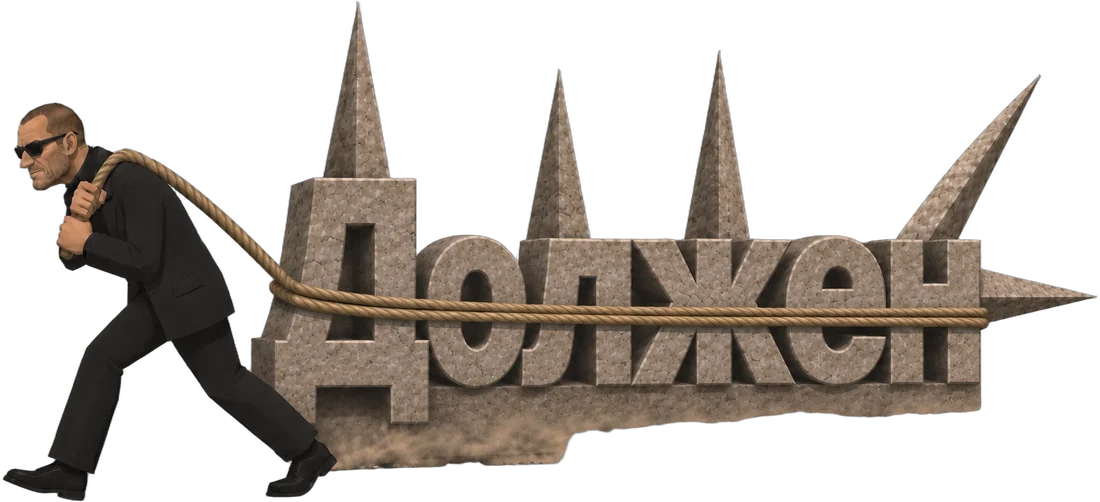
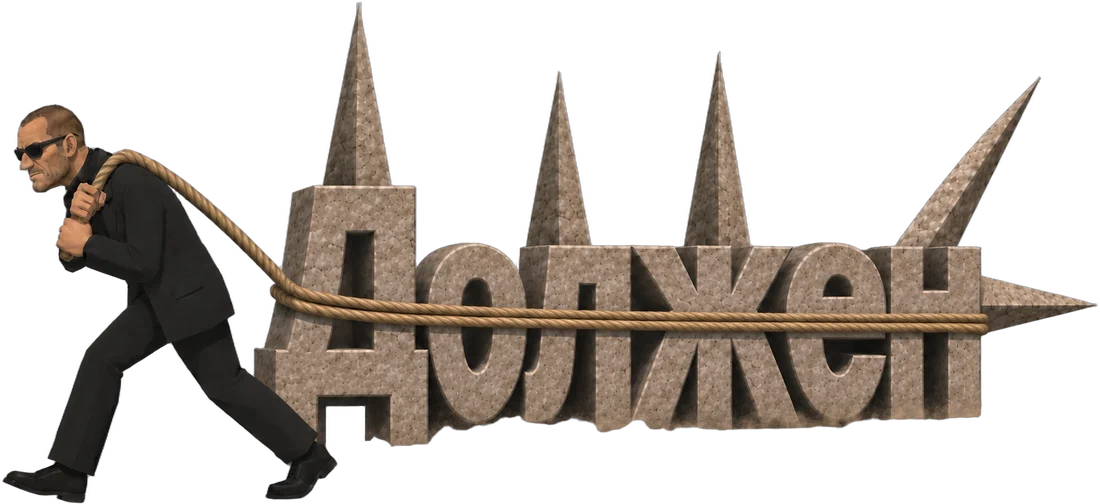
v2: дизайн как на главной (тёмный фон без полос, карточки и кнопки главной), блок «Кто ведёт», логотип SVG из Dela Gothic One, «Должен» без подложки, мысли без «POV», в тесте «Ты — …» в заголовке

diff --git a/app/v2/v2.css b/app/v2/v2.css
@@ -1,20 +1,24 @@
 /* Страница /v2. Всё под .v2, глобальные стили сайта не трогаем.
-   Палитра: тёмные секции — глубокий тёмно-синий, светлые — почти белые; акцент — синий бренда. Тема сайта на неё не влияет */
+   Палитра и приёмы — как на главной (app/globals.css): почти чёрный фон без чередования полос,
+   карточки с обводкой 2px и утолщённой нижней гранью, кнопки с «утапливаемой» нижней гранью.
+   Блок «Кто ведёт» — компонент главной (components/home/Hosts) на её классах; переменные главной
+   ниже прибиты к тёмной теме, чтобы светлая тема системы не перекрашивала страницу. */
 .v2 {
+  --bg: #070709; --text: #fff; --text-muted: #c8c8d8; --text-dim: #888898;
+  --pane: #0f0f18; --ink: #4a4a5e; --bg-2: #0f0f18; --bg-3: #161622;
+  --badge-text: #7b8fff; --badge-bg: rgba(0, 13, 195, .15); --badge-border: rgba(0, 13, 195, .4);
   --v2-head: 'Inter Tight';
-  --bg: #0a0c1a;
-  --bg2: #0f1226;
-  --card: #151a36;
-  --line: #262c52;
-  --text: #eef0fa;
-  --muted: #9aa1c4;
-  --gold: #7f8cff;          /* акцент текста на тёмном */
-  --gold-hi: #3d4dff;
-  --gold-ink: #ffffff;
-  --btn: #1f2fff;           /* кнопка: синий бренда, чуть ярче для тёмного фона */
-  --ink: #000;
-  background: var(--bg);
-  color: var(--text);
+  --bg2: #0f0f18;
+  --card: #0f0f18;           /* --pane главной */
+  --line: #4a4a5e;           /* --ink главной: обводка карточек */
+  --muted: #c8c8d8;
+  --gold: #8fa0ff;           /* --link главной: акцент текста */
+  --gold-hi: #b3c0ff;
+  --btn: #000dc3;            /* --accent */
+  --btn-ink: #00067a;        /* --accent-ink */
+  --glow: rgba(0, 13, 195, .18);
+  background: #070709;
+  color: #fff;
   font-family: 'Manrope', sans-serif;
   line-height: 1.5;
   min-height: 100vh;
@@ -25,49 +29,43 @@
 .v2 :focus-visible { outline: 2px solid var(--gold); outline-offset: 3px; }
 
 /* ---------- шапка ---------- */
-.v2-top { position: sticky; top: 0; z-index: 10; display: flex; align-items: center; justify-content: space-between; gap: 12px; padding: 10px 16px; background: rgba(10, 12, 26, .92); backdrop-filter: blur(8px); border-bottom: 1px solid var(--line); }
-.v2-top__logo { font-family: var(--v2-head), 'Manrope', sans-serif; font-weight: 900; font-size: 15px; letter-spacing: .08em; text-decoration: none; }
+.v2-top { position: sticky; top: 0; z-index: 10; display: flex; align-items: center; justify-content: space-between; gap: 12px; padding: 10px 16px; background: rgba(7, 7, 9, .9); backdrop-filter: blur(8px); border-bottom: 1px solid var(--line); }
+.v2-top__logo { display: block; color: #fff !important; line-height: 0; }
+.v2-top__logo svg { display: block; height: 30px; width: auto; }
 .v2-top__nav { display: flex; align-items: center; gap: 16px; }
 .v2-top__test { font-weight: 800; font-size: 15px; color: var(--gold) !important; text-decoration: underline; text-underline-offset: 4px; text-decoration-thickness: 1px; }
 .v2-top__test:hover { color: var(--gold-hi) !important; }
 .v2-top__logo, .v2-top__test, .v2-top .v2-btn { white-space: nowrap; }
 
 /* ---------- кнопки ---------- */
-.v2-btn { display: inline-block; padding: 13px 22px; font: 800 15px/1.2 'Manrope', sans-serif; letter-spacing: .04em; text-transform: uppercase; text-decoration: none; text-align: center; color: var(--text); background: transparent; border: 1px solid #5a5d63; border-radius: 4px; cursor: pointer; transition: background .15s, border-color .15s, transform .1s; }
-.v2-btn:hover { border-color: var(--text); }
-.v2-btn:active { transform: translateY(1px); }
-.v2-btn--red { color: #fff !important; background: var(--btn); border-color: var(--btn); box-shadow: 0 8px 28px rgba(31, 47, 255, .35); }
-.v2-btn--red:hover { background: var(--gold-hi); border-color: var(--gold-hi); }
-.v2-btn--ghost { border-color: var(--line); }
+.v2-btn { display: inline-block; padding: 11px 20px; font: 700 15px/1.2 'Manrope', sans-serif; text-decoration: none; text-align: center; color: #fff; background: #1c1c2b; border: 2px solid var(--line); border-radius: 8px; box-shadow: 0 2px 0 var(--line); cursor: pointer; transition: background .15s, transform .1s, box-shadow .1s; }
+.v2-btn:hover { transform: translateY(-1px); box-shadow: 0 3px 0 var(--line); }
+.v2-btn:active { transform: translateY(2px); box-shadow: 0 0 0 var(--line); }
+.v2-btn--red { padding: 13px 26px; color: #fff !important; background: var(--btn); border-color: var(--btn-ink); box-shadow: 0 2px 0 var(--btn-ink); }
+.v2-btn--red:hover { background: #0011e8; box-shadow: 0 3px 0 var(--btn-ink); }
+.v2-btn--red:active { box-shadow: 0 0 0 var(--btn-ink); }
 
 /* ---------- типографика ---------- */
-.v2-h1, .v2-h2, .v2-quiz__title { font-family: var(--v2-head), 'Manrope', sans-serif; font-weight: 900; line-height: 1.02; letter-spacing: -0.015em; text-wrap: balance; }
-.v2-h1 { font-size: clamp(38px, 6vw, 64px); margin: 16px 0; text-transform: uppercase; }
+.v2-h1, .v2-h2, .v2-quiz__title { font-family: var(--v2-head), 'Manrope', sans-serif; font-weight: 800; line-height: 1.04; letter-spacing: -0.03em; text-wrap: balance; }
+.v2-h1 { font-size: clamp(38px, 6vw, 66px); margin: 12px 0 16px; }
 .v2-h2 { font-size: clamp(28px, 4.6vw, 44px); margin-bottom: 12px; }
 .v2-lead { font-size: 18px; color: var(--muted); margin-bottom: 28px; max-width: 640px; }
-.v2-section { padding: 72px 0; border-top: 1px solid var(--line); }
-.v2-section--blue { background: var(--bg2); }
-.v2-section--yellow { background: radial-gradient(ellipse at 20% 0%, rgba(31, 47, 255, .28), transparent 60%), var(--bg2); }
-/* светлые секции: свои значения переменных, компоненты внутри перекрашиваются сами */
-.v2-section:not(.v2-section--blue):not(.v2-section--yellow) {
-  --text: #0b0e22; --muted: #4b5274; --card: #ffffff; --line: #d6dbee; --gold: #000dc3; --btn: #000dc3; --gold-hi: #1a28e0;
-  background: #eef1fa; color: var(--text);
-}
-.v2-section--paper:not(.v2-section--blue) { background: #e3e8f6; }
-.v2-section:not(.v2-section--blue):not(.v2-section--yellow) .v2-btn--ghost { border-color: #b9bfd8; color: var(--text); }
-
-.v2-sticker { display: inline-block; padding: 5px 0; font-weight: 800; font-size: 13px; letter-spacing: .14em; text-transform: uppercase; color: var(--gold); border-bottom: 1px solid var(--gold); }
+.v2-section { padding: 72px 0; }
+.v2 .hosts { padding: 72px 0; }
+.v2-section--blue { background: transparent; }
+.v2-section--yellow { background: radial-gradient(ellipse 60% 70% at 50% 0%, var(--glow), transparent 70%); }
+.v2-sticker { display: inline-block; font-weight: 600; font-size: 15px; color: var(--muted); }
 
 /* ---------- первый экран ---------- */
-.v2-hero { position: relative; overflow: hidden; padding: 48px 0 64px; background: radial-gradient(ellipse 55% 70% at 72% 55%, rgba(90, 110, 255, .22), transparent 70%), var(--bg); }
+.v2-hero { position: relative; overflow: hidden; padding: 48px 0 64px; background: radial-gradient(ellipse 55% 70% at 72% 55%, var(--glow), transparent 70%), #070709; }
 .v2-hero__grid { position: relative; display: grid; gap: 32px; align-items: center; }
 .v2-hero__sub { font-size: 19px; color: var(--muted); max-width: 560px; margin-bottom: 26px; }
 .v2-hero__actions { display: flex; flex-wrap: wrap; gap: 14px; margin-bottom: 26px; }
 .v2-chips { display: flex; flex-wrap: wrap; gap: 8px; }
-.v2-chips li { padding: 5px 12px; font-size: 13px; font-weight: 700; color: var(--muted); border: 1px solid var(--line); border-radius: 3px; }
+.v2-chips li { padding: 5px 12px; font-size: 13px; font-weight: 700; color: #fff; border: 1.5px solid var(--line); border-radius: 999px; }
 
 /* стена «должен»: давящие слова бегут за героем */
-.v2-wall { position: absolute; inset: 0; display: flex; flex-direction: column; justify-content: space-around; pointer-events: none; color: var(--text); opacity: .05; }
+.v2-wall { position: absolute; inset: 0; display: flex; flex-direction: column; justify-content: space-around; pointer-events: none; color: #fff; opacity: .05; }
 .v2-wall__row { display: flex; gap: 36px; width: max-content; font-family: var(--v2-head), 'Manrope', sans-serif; font-weight: 900; font-size: clamp(44px, 8vw, 96px); line-height: 1; text-transform: uppercase; white-space: nowrap; animation: v2-slide 300s linear infinite; }
 .v2-wall__row--rev { animation-direction: reverse; }
 @keyframes v2-slide { to { transform: translateX(-50%); } }
@@ -83,23 +81,22 @@
 .v2-hero__art { position: relative; }
 .v2-hero__drag { display: block; width: 100%; max-width: none; height: auto; filter: drop-shadow(0 18px 18px rgba(0, 0, 0, .6)); }
 /* подписи на шипах «Должен»: x/y — середина шипа */
-.v2-spike { position: absolute; translate: -50% -50%; padding: 3px 8px; font-weight: 800; font-size: clamp(11px, 1.5vw, 15px); line-height: 1.1; white-space: nowrap; color: #fff; background: var(--btn); border-radius: 3px; box-shadow: 0 4px 12px rgba(0, 0, 0, .45); }
+.v2-spike { position: absolute; translate: -50% -50%; padding: 3px 8px; font-weight: 800; font-size: clamp(11px, 1.5vw, 15px); line-height: 1.1; white-space: nowrap; color: #fff; background: var(--btn); border-radius: 6px; box-shadow: 0 2px 0 var(--btn-ink), 0 4px 12px rgba(0, 0, 0, .45); }
 
-/* мысли из рилса «POV: мозг мужика» */
+/* мужские мысли под заголовком */
 .v2-pov { margin: -4px 0 18px; }
-.v2-pov__label { display: block; font-size: 13px; font-weight: 800; letter-spacing: .12em; text-transform: uppercase; color: var(--muted); margin-bottom: 4px; }
-/* высота всегда на две строки: мысли разной длины не двигают кнопки ниже */
-.v2-pov__line { display: block; height: 2.3em; overflow: hidden; font-family: var(--v2-head), 'Manrope', sans-serif; font-weight: 900; font-size: clamp(22px, 3vw, 32px); line-height: 1.15; text-transform: uppercase; color: var(--gold); }
+/* высота ровно в одну строку: мысли разной длины не двигают кнопки ниже */
+.v2-pov__line { display: block; height: 1.2em; overflow: hidden; white-space: nowrap; font-family: var(--v2-head), 'Manrope', sans-serif; font-weight: 900; font-size: clamp(22px, 3vw, 32px); line-height: 1.15; color: var(--gold); }
 .v2-pov__word { display: inline-block; }
 
 /* ---------- узнал себя ---------- */
 .v2-signs-grid { display: grid; gap: 28px; align-items: center; }
 .v2-signs { display: grid; gap: 10px; margin: 24px 0; }
-.v2-signs li { display: flex; gap: 14px; align-items: flex-start; padding: 14px 16px; font-weight: 600; background: var(--card); border: 1px solid var(--line); border-radius: 4px; }
+.v2-signs li { display: flex; gap: 14px; align-items: flex-start; padding: 14px 16px; font-weight: 600; background: var(--card); border: 2px solid var(--line); border-bottom-width: 4px; border-radius: 12px; }
 .v2-signs span { color: var(--gold); font-size: 20px; line-height: 1.15; }
 .v2-conclusion { font-size: 20px; font-weight: 800; margin-bottom: 20px; }
 
-.v2-crush { position: relative; display: flex; flex-direction: column; align-items: center; padding-top: 10px; overflow: hidden; background: radial-gradient(ellipse 60% 55% at 50% 60%, rgba(90, 110, 255, .25), transparent 70%); border-bottom: 4px solid #3a4170; }
+.v2-crush { position: relative; display: flex; flex-direction: column; align-items: center; padding-top: 10px; overflow: hidden; background: radial-gradient(ellipse 60% 55% at 50% 60%, var(--glow), transparent 70%); border-bottom: 4px solid var(--line); }
 .v2-crush__pile { position: relative; z-index: 2; display: flex; flex-direction: column; align-items: center; margin-bottom: -8%; }
 .v2-crush__stone { font-size: clamp(30px, 5vw, 46px); margin-top: -6px; }
 .v2-crush__stone:nth-child(odd) { transform: rotate(-3deg); }
@@ -108,7 +105,7 @@
 
 /* ---------- факты ---------- */
 .v2-facts { display: grid; gap: 16px; margin: 24px 0; }
-.v2-facts li { padding: 22px; background: var(--card); border: 1px solid var(--line); border-radius: 4px; }
+.v2-facts li { padding: 22px; background: var(--card); border: 2px solid var(--line); border-bottom-width: 4px; border-radius: 12px; }
 .v2-facts b { display: block; margin-bottom: 10px; font-family: var(--v2-head), 'Manrope', sans-serif; font-weight: 900; font-size: 40px; line-height: 1.05; color: var(--gold); }
 .v2-facts p { color: var(--muted); }
 .v2-facts small { display: block; margin-top: 10px; font-size: 12px; color: var(--muted); opacity: .8; }
@@ -116,10 +113,10 @@
 /* ---------- оффер и цена ---------- */
 .v2-offer { display: grid; gap: 28px; margin-top: 24px; }
 .v2-get { display: grid; gap: 12px; }
-.v2-get li { padding: 18px 20px; background: var(--card); border: 1px solid var(--line); border-radius: 4px; }
+.v2-get li { padding: 18px 20px; background: var(--card); border: 2px solid var(--line); border-bottom-width: 4px; border-radius: 12px; }
 .v2-get h3 { font-size: 19px; margin-bottom: 4px; }
 .v2-get p { color: var(--muted); }
-.v2-price { padding: 28px 24px; text-align: center; background: linear-gradient(180deg, #1a2050, #10143a); color: #eef0fa; --muted: #aab1d6; --gold: #8f9bff; border: 1px solid var(--gold); border-radius: 4px; box-shadow: 0 20px 50px rgba(10, 14, 60, .35); }
+.v2-price { padding: 28px 24px; text-align: center; background: linear-gradient(160deg, #14143a 0%, #161622 60%); color: #fff; border: 2px solid var(--line); border-bottom-width: 5px; border-radius: 16px; box-shadow: 0 16px 40px rgba(0, 0, 0, .45); }
 .v2-price__start { font-weight: 800; font-size: 13px; letter-spacing: .12em; text-transform: uppercase; color: var(--gold); }
 .v2-price__amount { font-family: var(--v2-head), 'Manrope', sans-serif; font-weight: 900; font-size: 72px; line-height: 1.05; }
 .v2-price__per { font-weight: 800; margin-bottom: 12px; }
@@ -127,14 +124,13 @@
 .v2-price__hint { margin: 16px 0 0; }
 
 /* ---------- тест ---------- */
-.v2-quiz { display: grid; gap: 22px; align-items: center; padding: 26px; background: var(--card); border: 1px solid var(--line); border-radius: 4px; box-shadow: 0 20px 50px rgba(0, 0, 0, .4); }
+.v2-quiz { display: grid; gap: 22px; align-items: center; padding: 26px; background: var(--card); border: 2px solid var(--line); border-bottom-width: 4px; border-radius: 12px; box-shadow: 0 16px 40px rgba(0, 0, 0, .45); }
 .v2-quiz--q { display: block; }
 .v2-quiz--result { grid-template-columns: 1fr; }
 .v2-quiz__face { width: 160px; height: auto; justify-self: center; filter: drop-shadow(0 14px 14px rgba(0, 0, 0, .6)); }
 .v2-quiz__lead { font-size: 18px; color: var(--muted); margin-bottom: 18px; }
 .v2-quiz__title { font-size: 26px; margin-bottom: 10px; }
-.v2-quiz--result .v2-quiz__title { font-size: clamp(32px, 4.6vw, 46px); text-transform: uppercase; }
-.v2-quiz__kicker { font-weight: 800; font-size: 13px; letter-spacing: .12em; text-transform: uppercase; color: var(--gold); margin-bottom: 4px; }
+.v2-quiz--result .v2-quiz__title { font-size: clamp(32px, 4.6vw, 46px); }
 .v2-quiz__sub { font-weight: 800; font-size: 18px; margin-bottom: 8px; }
 .v2-quiz__actions { display: flex; flex-wrap: wrap; gap: 12px; }
 .v2-quiz__bar { height: 4px; margin-bottom: 16px; background: var(--line); overflow: hidden; }
@@ -142,24 +138,24 @@
 .v2-quiz__count { font-size: 13px; font-weight: 700; letter-spacing: .1em; text-transform: uppercase; color: var(--muted); }
 .v2-quiz__q { font-size: 24px; line-height: 1.25; margin: 6px 0 20px; }
 .v2-quiz__opts { display: grid; gap: 10px; }
-.v2-opt { width: 100%; padding: 15px 18px; text-align: left; font: 700 17px/1.3 'Manrope', sans-serif; color: var(--text); background: var(--bg2); border: 1px solid var(--line); border-radius: 4px; cursor: pointer; transition: border-color .12s, background .12s, transform .12s; }
-.v2-opt:hover { border-color: var(--gold); background: #1a2050; transform: translateX(4px); }
+.v2-opt { width: 100%; padding: 15px 18px; text-align: left; font: 700 17px/1.3 'Manrope', sans-serif; color: #fff; background: #161622; border: 2px solid var(--line); border-bottom-width: 4px; border-radius: 12px; cursor: pointer; transition: border-color .12s, background .12s, transform .12s; }
+.v2-opt:hover { border-color: var(--gold); background: #1c1c2b; transform: translateX(4px); }
 
 /* мем в результате */
-.v2-meme { position: relative; margin: 0; border: 1px solid var(--line); border-radius: 4px; overflow: hidden; background: #222; }
+.v2-meme { position: relative; margin: 0; border: 2px solid var(--line); border-radius: 12px; overflow: hidden; background: #222; }
 .v2-meme img { width: 100%; height: auto; aspect-ratio: 1; object-fit: cover; }
 
 /* ---------- шаги ---------- */
 .v2-steps { display: grid; gap: 14px; margin-top: 24px; }
-.v2-steps li { position: relative; padding: 20px 20px 20px 76px; background: var(--card); border: 1px solid var(--line); border-radius: 4px; }
+.v2-steps li { position: relative; padding: 20px 20px 20px 76px; background: var(--card); border: 2px solid var(--line); border-bottom-width: 4px; border-radius: 12px; }
 .v2-steps__n { position: absolute; left: 20px; top: 18px; font-family: var(--v2-head), 'Manrope', sans-serif; font-weight: 900; font-size: 40px; line-height: 1; color: var(--gold); }
 .v2-steps h3 { font-size: 19px; margin-bottom: 4px; }
 .v2-steps p { color: var(--muted); }
 
 /* ---------- вопросы ---------- */
 .v2-faq { display: grid; gap: 8px; margin-top: 20px; }
-.v2-faq details { background: var(--card); border: 1px solid var(--line); border-radius: 4px; }
-.v2-faq details[open] { border-color: #4a4d53; }
+.v2-faq details { background: var(--card); border: 2px solid var(--line); border-bottom-width: 4px; border-radius: 12px; }
+.v2-faq details[open] { border-color: var(--gold); }
 .v2-faq summary { padding: 16px 18px; font-weight: 800; cursor: pointer; list-style: none; }
 .v2-faq summary::-webkit-details-marker { display: none; }
 .v2-faq summary::after { content: '+'; float: right; font-size: 22px; line-height: 1; color: var(--gold); }
@@ -167,10 +163,10 @@
 .v2-faq p { padding: 0 18px 18px; color: var(--muted); }
 
 /* ---------- финал ---------- */
-.v2-final { padding: 72px 0; text-align: center; border-top: 1px solid var(--line); background: radial-gradient(ellipse 50% 60% at 50% 30%, rgba(31, 47, 255, .35), transparent 70%), #070917; }
+.v2-final { padding: 72px 0; text-align: center; background: radial-gradient(ellipse 50% 60% at 50% 30%, rgba(0, 13, 195, .3), transparent 70%); }
 .v2-final .v2-lead { margin-inline: auto; }
 .v2-final__face { width: 220px; height: auto; margin: 0 auto 14px; filter: drop-shadow(0 18px 18px rgba(0, 0, 0, .7)); }
-.v2-foot { padding: 28px 0 40px; font-size: 13px; color: #7d84a8; border-top: 1px solid var(--line); background: #070917; }
+.v2-foot { padding: 28px 0 40px; font-size: 13px; color: #888898; border-top: 1px solid rgba(255, 255, 255, .14); }
 .v2-foot p + p { margin-top: 8px; }
 
 /* ---------- анимации ---------- */
@@ -211,7 +207,7 @@
 }
 /* телефон: картинка над заголовком, шапка в одну строку */
 @media (max-width: 759px) {
-  .v2-hero { padding-top: 20px; background: radial-gradient(ellipse 90% 30% at 50% 14%, rgba(90, 110, 255, .22), transparent 70%), var(--bg); }
+  .v2-hero { padding-top: 20px; background: radial-gradient(ellipse 90% 30% at 50% 14%, var(--glow), transparent 70%), #070709; }
   .v2-hero__art { order: -1; margin-top: -8px; }
 }
 @media (max-width: 420px) {

diff --git a/components/v2/LogoSvg.tsx b/components/v2/LogoSvg.tsx
@@ -1,0 +1,11 @@
+/**
+ * Логотип «Мужская среда» кривыми из Dela Gothic One — как на главной (components/Logo.tsx),
+ * но без загрузки шрифта. Цвет берёт из currentColor.
+ */
+export default function LogoSvg({ className }: { className?: string }) {
+  return (
+    <svg className={className} viewBox="40 -21 6661 1761" role="img" aria-label="Мужская среда" xmlns="http://www.w3.org/2000/svg">
+      <path fill="currentColor" d="M975 0.0 1053 726.0H794L778 208.0L678 726.0H416L314 212.0L299 726.0H40L118 0.0H458L545 473.0L621 0.0Z M1908.0 0.0Q1904.0 11.0 1898.0 24.5Q1892.0 38.0 1886.0 55.0Q1831.0 191.0 1784.5 299.5Q1738.0 408.0 1674.0 546.0Q1618.0 666.0 1510.5 738.5Q1403.0 811.0 1240.0 808.0Q1219.0 721.0 1206.5 676.5Q1194.0 632.0 1173.0 585.0Q1232.0 598.0 1282.0 598.0Q1331.0 598.0 1370.0 585.0Q1298.0 400.0 1113.0 0.0H1362.0L1521.0 374.0L1549.0 307.0Q1653.0 60.0 1666.0 0.0Z M2719.0 317.0Q2761.0 342.0 2797.0 379.0Q2842.0 427.0 2866.0 485.5Q2890.0 544.0 2913.0 629.0Q2929.0 694.0 2943.0 726.0H2699.0Q2696.0 717.0 2687.0 668.0Q2679.0 621.0 2670.5 590.0Q2662.0 559.0 2646.0 536.0Q2624.0 503.0 2599.0 484.0Q2574.0 465.0 2540.0 456.0Q2542.0 591.0 2546.0 726.0H2348.0Q2353.0 592.0 2354.0 459.0Q2324.0 468.0 2301.5 487.0Q2279.0 506.0 2258.0 536.0Q2242.0 559.0 2233.5 590.0Q2225.0 621.0 2217.0 668.0Q2208.0 717.0 2205.0 726.0H1961.0Q1975.0 694.0 1991.0 629.0Q2014.0 544.0 2038.0 485.5Q2062.0 427.0 2107.0 379.0Q2143.0 342.0 2185.0 317.0L1941.0 0.0H2209.0Q2236.0 60.0 2274.0 128.5Q2312.0 197.0 2353.0 257.0Q2353.0 143.0 2348.0 0.0H2546.0Q2542.0 132.0 2540.0 264.0Q2544.0 264.0 2545.0 265.0Q2587.0 204.0 2627.0 133.5Q2667.0 63.0 2695.0 0.0H2963.0Z M3036.0 366.0Q3036.0 187.0 3143.0 83.0Q3250.0 -21.0 3476.0 -21.0Q3792.0 -21.0 3899.0 196.0Q3809.0 227.0 3688.0 289.0Q3659.0 233.0 3596.5 206.0Q3534.0 179.0 3469.0 179.0Q3373.0 179.0 3326.0 229.5Q3279.0 280.0 3279.0 354.0Q3279.0 434.0 3329.5 484.5Q3380.0 535.0 3484.0 535.0Q3567.0 535.0 3616.0 507.5Q3665.0 480.0 3688.0 420.0Q3770.0 464.0 3898.0 519.0Q3848.0 640.0 3731.0 688.0Q3614.0 736.0 3476.0 736.0Q3250.0 736.0 3143.0 640.0Q3036.0 544.0 3036.0 366.0Z M4795.0 629.0Q4820.0 698.0 4835.0 726.0H4541.0Q4535.0 709.0 4525.0 667.0Q4515.0 621.0 4503.5 590.0Q4492.0 559.0 4471.0 536.0Q4437.0 500.0 4386.5 489.5Q4336.0 479.0 4248.0 479.0V726.0H3999.0Q4007.0 532.0 4007.0 363.0Q4007.0 194.0 3999.0 0.0H4248.0V261.0Q4258.0 262.0 4278.0 262.0Q4434.0 108.0 4510.0 0.0H4834.0L4523.0 310.0Q4589.0 336.0 4643.0 379.0Q4702.0 427.0 4733.5 485.5Q4765.0 544.0 4795.0 629.0Z M5566.0 726.0Q5547.0 669.0 5515.0 583.0H5196.0L5146.0 726.0H4895.0L5175.0 0.0H5543.0L5825.0 726.0ZM5458.0 427.0Q5420.0 322.0 5380.0 217.0L5356.0 152.0Q5321.0 243.0 5253.0 427.0Z M6701.0 0.0Q6694.0 169.0 6694.0 363.0Q6694.0 557.0 6701.0 726.0H6465.0V494.0H6318.0Q6223.0 644.0 6179.0 726.0H5907.0L6069.0 501.0Q6074.0 492.0 6086.0 476.0Q5983.0 449.0 5940.5 389.0Q5898.0 329.0 5898.0 242.0Q5898.0 131.0 5978.0 66.0Q6058.0 1.0 6260.0 1.0H6465.0V0.0ZM6465.0 307.0V193.0H6330.0Q6244.0 193.0 6200.0 198.0Q6156.0 203.0 6140.0 215.0Q6124.0 227.0 6124.0 249.0Q6124.0 272.0 6141.0 284.0Q6158.0 296.0 6201.5 301.5Q6245.0 307.0 6330.0 307.0Z M40 1212.0Q40 1033.0 147.0 929.0Q254 825.0 480 825.0Q796 825.0 903 1042.0Q813 1073.0 692 1135.0Q663 1079.0 600.5 1052.0Q538 1025.0 473 1025.0Q377 1025.0 330.0 1075.5Q283 1126.0 283 1200.0Q283 1280.0 333.5 1330.5Q384 1381.0 488 1381.0Q571 1381.0 620.0 1353.5Q669 1326.0 692 1266.0Q774 1310.0 902 1365.0Q852 1486.0 735.0 1534.0Q618 1582.0 480 1582.0Q254 1582.0 147.0 1486.0Q40 1390.0 40 1212.0Z M1457.0 847.0Q1656.0 847.0 1734.0 917.5Q1812.0 988.0 1812.0 1116.0Q1812.0 1204.0 1781.0 1265.5Q1750.0 1327.0 1672.0 1361.5Q1594.0 1396.0 1457.0 1396.0H1249.0V1572.0H1003.0Q1011.0 1378.0 1011.0 1209.0Q1011.0 1040.0 1003.0 846.0H1249.0V847.0ZM1387.0 1203.0Q1470.0 1203.0 1511.5 1196.5Q1553.0 1190.0 1569.5 1173.0Q1586.0 1156.0 1586.0 1123.0Q1586.0 1090.0 1570.5 1073.5Q1555.0 1057.0 1513.5 1051.0Q1472.0 1045.0 1387.0 1045.0H1249.0V1203.0Z M2148.0 1389.0Q2528.0 1387.0 2699.0 1378.0Q2692.0 1419.0 2690.5 1462.5Q2689.0 1506.0 2689.0 1572.0H1912.0Q1920.0 1378.0 1920.0 1209.0Q1920.0 1040.0 1912.0 846.0H2689.0V1027.0H2148.0V1123.0Q2196.0 1124.0 2290.0 1124.0Q2449.0 1124.0 2619.0 1118.0V1290.0Q2449.0 1284.0 2290.0 1284.0Q2196.0 1284.0 2148.0 1285.0Z M3638.0 1394.0H3679.0V1737.0H3442.0V1592.0H2996.0V1740.0H2759.0V1394.0H2809.0Q2852.0 1386.0 2875.0 1359.0Q2898.0 1332.0 2909.0 1273.0Q2918.0 1224.0 2918.0 1050.0L2917.0 846.0L3638.0 847.0ZM3131.0 1394.0H3385.0V1042.0H3161.0L3160.0 1100.0Q3160.0 1176.0 3156.5 1233.5Q3153.0 1291.0 3142.0 1351.0Q3136.0 1379.0 3131.0 1394.0Z M4410.0 1572.0Q4391.0 1515.0 4359.0 1429.0H4040.0L3990.0 1572.0H3739.0L4019.0 846.0H4387.0L4669.0 1572.0ZM4302.0 1273.0Q4264.0 1168.0 4224.0 1063.0L4200.0 998.0Q4165.0 1089.0 4097.0 1273.0Z" />
+    </svg>
+  )
+}

diff --git a/app/v2/page.tsx b/app/v2/page.tsx
@@ -1,5 +1,7 @@
 import type { Metadata, Viewport } from 'next'
+import Hosts from '@/components/home/Hosts'
 import Crushed from '@/components/v2/Crushed'
+import LogoSvg from '@/components/v2/LogoSvg'
 import QuizV2 from '@/components/v2/QuizV2'
 import Thoughts from '@/components/v2/Thoughts'
 import { THOUGHTS } from '@/components/v2/pov-thoughts'
@@ -35,11 +37,11 @@ const SIGNS = [
 
 /** Шипы на «Должен»: подпись и середина шипа в % от картинки drag.webp */
 const SPIKES: Array<[string, number, number]> = [
-  ['семья', 32.7, 19.5],
-  ['работа', 50.3, 32.6],
-  ['бизнес', 65.1, 29.7],
-  ['ипотека', 89.2, 31.8],
-  ['усталость', 91.5, 59.3],
+  ['семья', 32.4, 19.8],
+  ['работа', 50.8, 32.8],
+  ['бизнес', 64.7, 29.9],
+  ['ипотека', 88.2, 32.8],
+  ['усталость', 91.5, 58.7],
 ]
 
 const FACTS: Array<[string, string, string]> = [
@@ -81,7 +83,7 @@ export default function V2Page() {
       <div className="v2">
         <link rel="stylesheet" href={HEAD_FONT} precedence="default" />
         <header className="v2-top">
-          <a href="/" className="v2-top__logo" aria-label="Мужская среда">МУЖСКАЯ СРЕДА</a>
+          <a href="/" className="v2-top__logo"><LogoSvg /></a>
           <nav className="v2-top__nav">
             <a href="#test" className="v2-top__test">Пройти тест</a>
             <Cta>Хочу в группу</Cta>
@@ -117,7 +119,7 @@ export default function V2Page() {
                 </ul>
               </div>
               <div className="v2-hero__art" aria-hidden="true">
-                <img className="v2-hero__drag" src="/v2/drag.webp" alt="" width={1100} height={502} fetchPriority="high" />
+                <img className="v2-hero__drag" src="/v2/drag.webp" alt="" width={1100} height={504} fetchPriority="high" />
                 {SPIKES.map(([w, x, y]) => (
                   <span key={w} className="v2-spike" style={{ left: `${x}%`, top: `${y}%` }}>{w}</span>
                 ))}
@@ -174,6 +176,8 @@ export default function V2Page() {
               </div>
             </div>
           </section>
+
+          <Hosts />
 
           <section className="v2-section v2-section--yellow" id="test">
             <div className="v2-wrap">

diff --git a/components/v2/pov-thoughts.ts b/components/v2/pov-thoughts.ts
@@ -1,19 +1,13 @@
-/** Мысли из рилса «POV: мозг мужика» (мужик у костра, blog/reels/mozg-muzhika) */
+/** Мысли, которые крутятся у мужика в голове: мелькают под заголовком и бегут фоном первого экрана */
 export const THOUGHTS = [
-  'Надо больше зарабатывать',
-  'Жена меня ещё любит?',
-  'Детям опять малы кроссовки',
-  'Я вообще нормальный отец?',
-  'Как же я заебался',
-  'Штраф так и не оплатил',
-  'Пора начать откладывать',
-  'Сколько можно снимать квартиру?',
-  'Опять денег не хватает',
-  'С пацанами сто лет не виделся',
-  'Хватит себя жалеть',
-  'Нужна подработка',
-  'Хочу просто ничего не делать',
-  'Почему всё так дорого?',
-  'Хватит загоняться',
-  'Надо делать больше',
+  'Где заработать?',
+  'Карьерный кризис',
+  'Не с кем поделиться',
+  'Жена не понимает',
+  'Друг успешнее',
+  'Ипотека ещё на 20 лет',
+  'Дети растут без меня',
+  'Опять сорвался на своих',
+  'Сил ни на что нет',
+  'А дальше что?',
 ]

diff --git a/components/v2/Thoughts.tsx b/components/v2/Thoughts.tsx
@@ -4,7 +4,7 @@ import { useEffect, useState } from 'react'
 
 import { THOUGHTS } from './pov-thoughts'
 
-/** Мысли из рилса мелькают по одной; при reduced-motion стоит первая. */
+/** Мужские мысли мелькают по одной; при reduced-motion стоит первая. */
 export default function Thoughts() {
   const [i, setI] = useState(0)
 
@@ -16,7 +16,6 @@ export default function Thoughts() {
 
   return (
     <p className="v2-pov">
-      <span className="v2-pov__label">POV: мозг мужика</span>
       <span className="v2-pov__line" aria-live="off">
         <span key={i} className="v2-pov__word">{THOUGHTS[i]}</span>
       </span>

diff --git a/components/v2/QuizV2.tsx b/components/v2/QuizV2.tsx
@@ -130,8 +130,7 @@ export default function QuizV2() {
           <img src={o.meme} alt={`Мем: «${o.top}. ${o.bottom}»`} width={900} height={900} />
         </figure>
         <div>
-          <p className="v2-quiz__kicker">Ты —</p>
-          <h3 className="v2-quiz__title">{o.name}</h3>
+          <h3 className="v2-quiz__title">Ты — {o.name}</h3>
           <p className="v2-quiz__sub">{o.title}</p>
           <p className="v2-quiz__lead">{o.text}</p>
           <div className="v2-quiz__actions">
